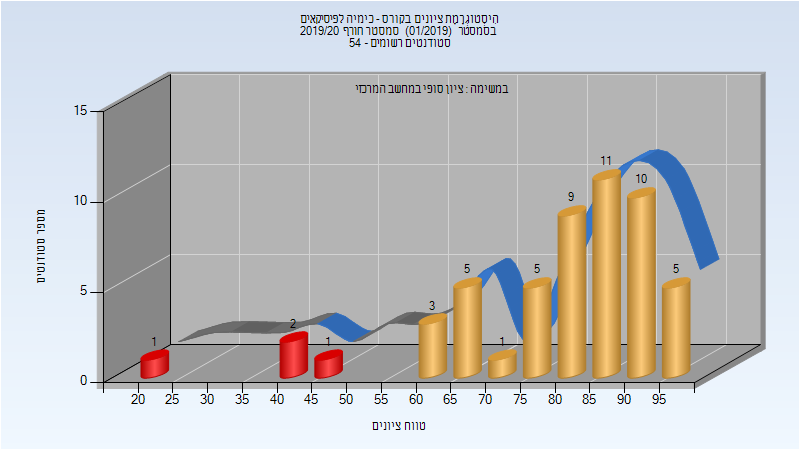
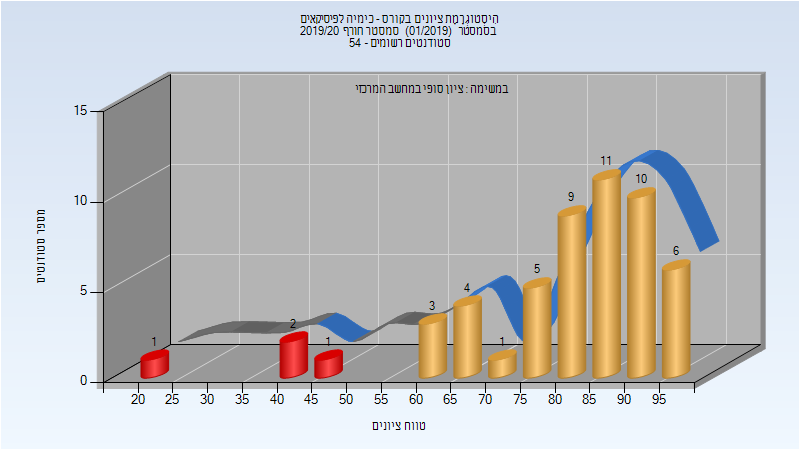
Deploy michael-maltsev/technion-histograms to github.com/michael-maltsev/technion-histograms.git:gh-pages

Changed region(s): [[0.8125, 0.4356, 0.9062, 0.6533], [0.5625, 0.56, 0.6562, 0.7467]]

diff --git a/116217/index.html b/116217/index.html
@@ -529,13 +529,13 @@
 </thead>
 <tbody>
 <tr>
-<td>76</td>
-<td>73/3</td>
+<td>77</td>
+<td>74/3</td>
 <td>96</td>
 <td>32</td>
 <td>100</td>
-<td>80.908</td>
-<td>84.5</td>
+<td>80.896</td>
+<td>84</td>
 </tr>
 </tbody>
 </table>

diff --git a/124108/index.html b/124108/index.html
@@ -433,8 +433,8 @@
 <td>92</td>
 <td>24</td>
 <td>99</td>
-<td>80.057</td>
-<td>84</td>
+<td>80.623</td>
+<td>85</td>
 </tr>
 </tbody>
 </table>

diff --git a/116217/README.md b/116217/README.md
@@ -165,5 +165,5 @@
 
 | סטודנטים | עברו/נכשלו | אחוז עוברים | ציון מינימלי | ציון מקסימלי | ממוצע | חציון |
 | ---- | ---- | ---- | ---- | ---- | ---- | ---- |
-| 76 | 73/3 | 96 | 32 | 100 | 80.908 | 84.5 |
+| 77 | 74/3 | 96 | 32 | 100 | 80.896 | 84 |
 

diff --git a/124108/README.md b/124108/README.md
@@ -130,5 +130,5 @@
 
 | סטודנטים | עברו/נכשלו | אחוז עוברים | ציון מינימלי | ציון מקסימלי | ממוצע | חציון |
 | ---- | ---- | ---- | ---- | ---- | ---- | ---- |
-| 53 | 49/4 | 92 | 24 | 99 | 80.057 | 84 |
+| 53 | 49/4 | 92 | 24 | 99 | 80.623 | 85 |
 
